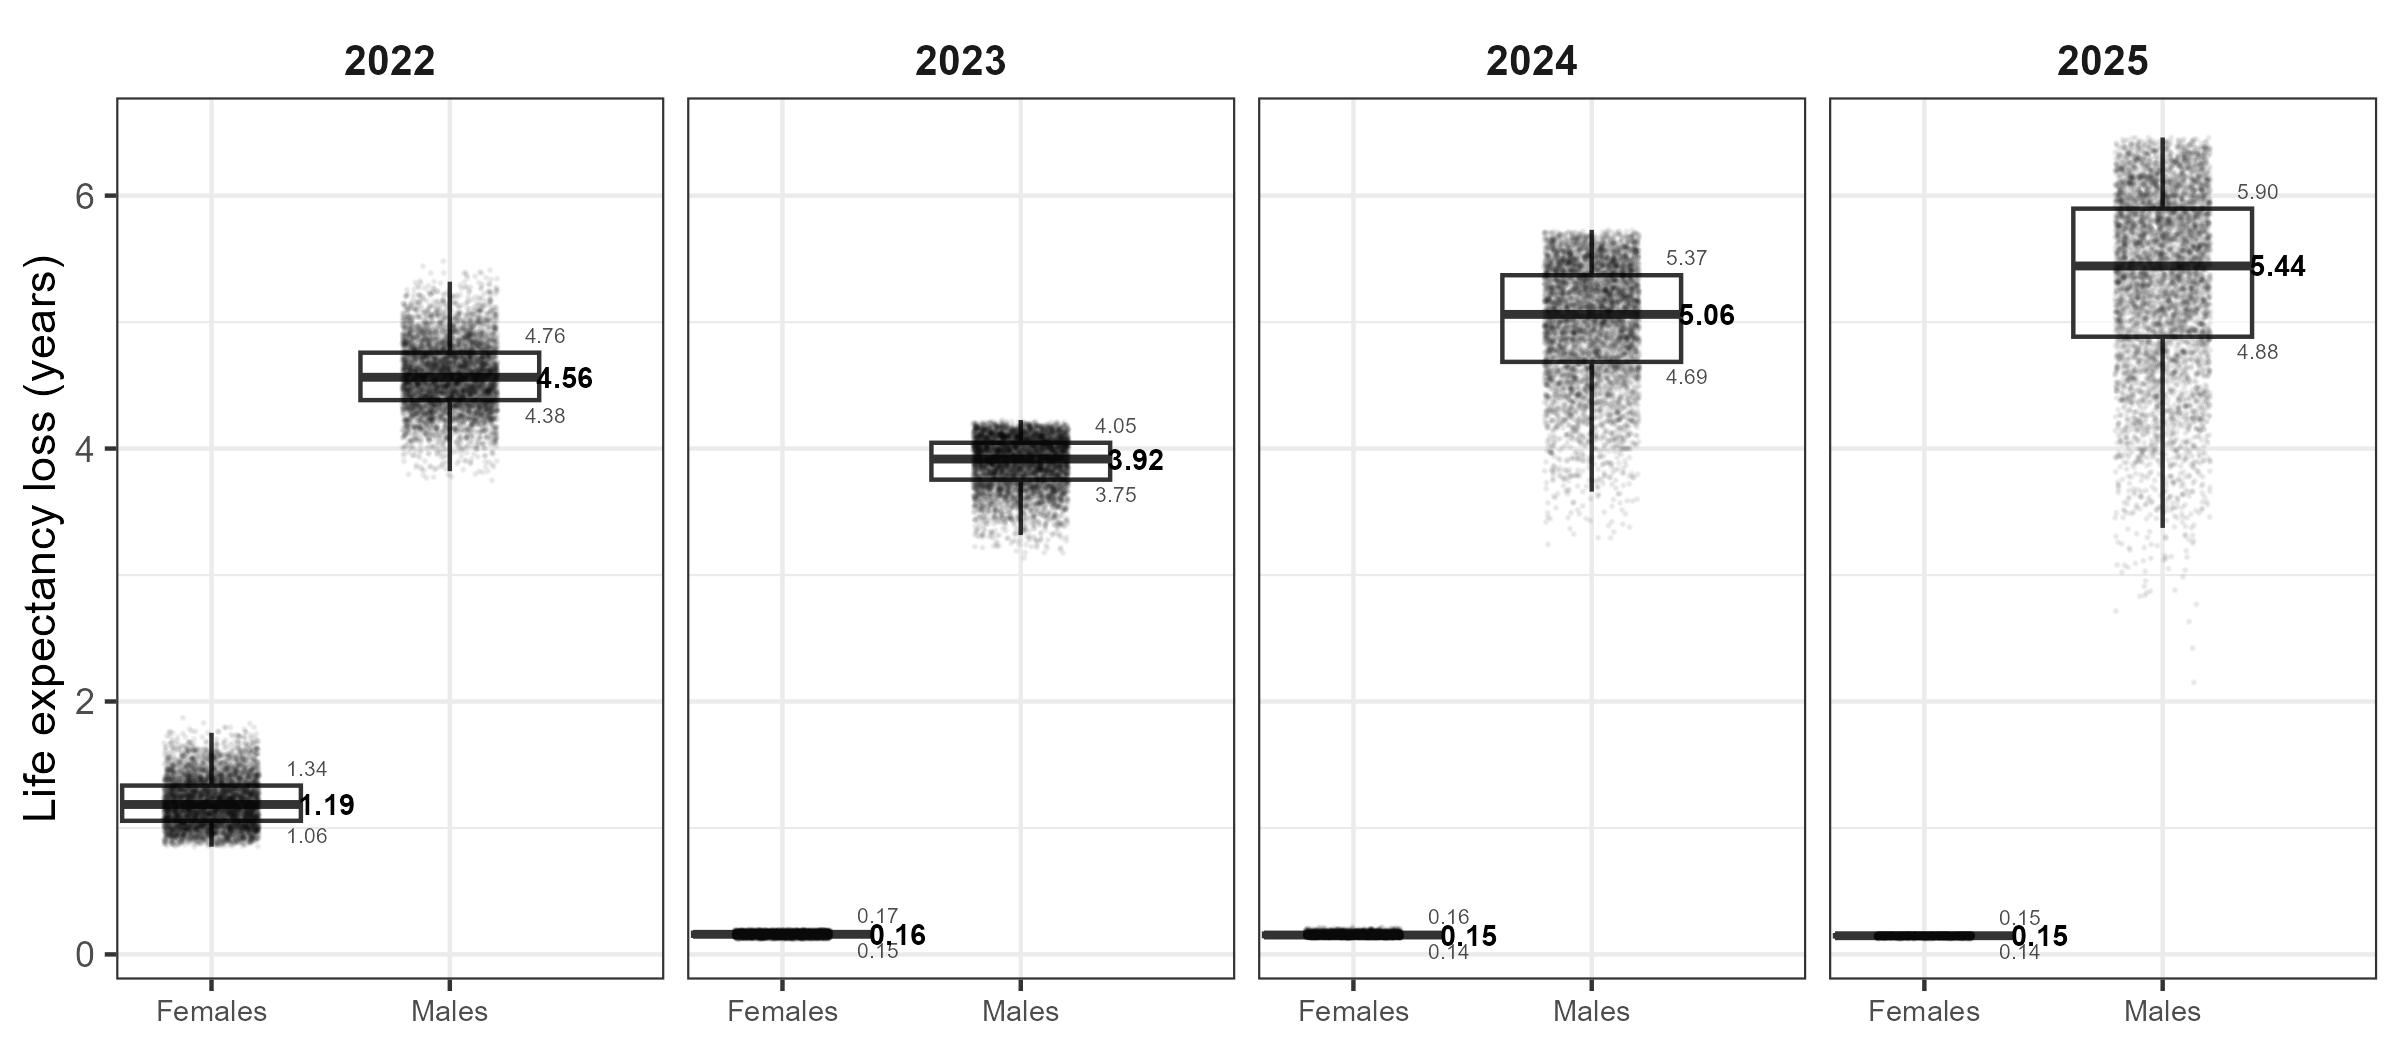
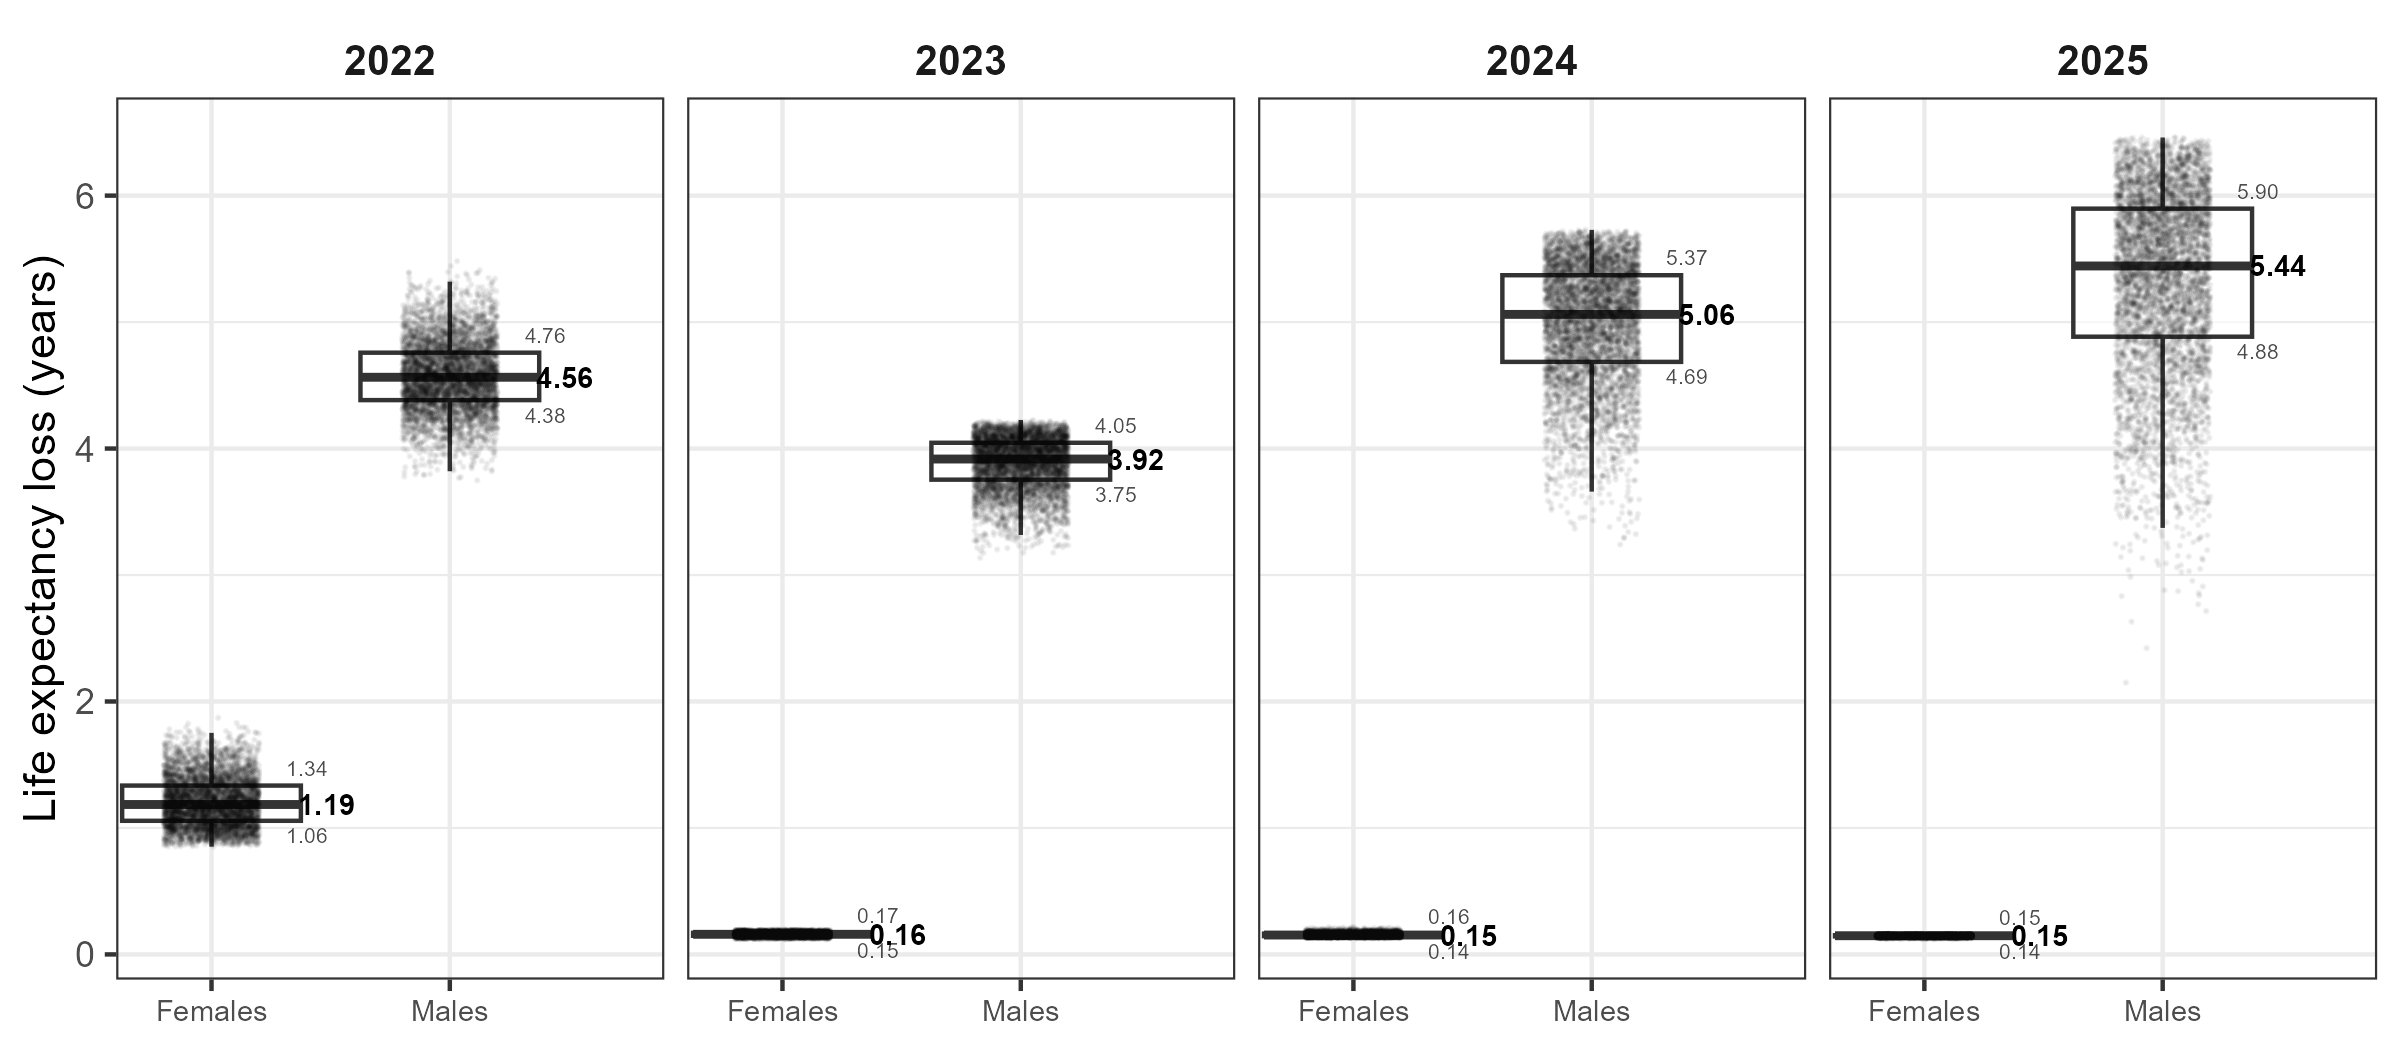
standardizing names

diff --git a/README.md b/README.md
@@ -14,7 +14,7 @@ them and installs anything missing.
 ```r
 source("code/01_pop_estimates_sssu.R")
 # ... 02, 03, 04, 05, 06, 07_*, 08, 09, 10 ...
-source("code/11_estimation conflict and all-cause mortality_arriaga.R")
+source("code/11_estimation_conflict_allcause_mortality.R")
 source("code/14_e0_loss_decomposition_by_cause.R")
 ```
 
@@ -38,7 +38,7 @@ only costs that once.
 | `04` | Lee-Carter forecast → counterfactual "no war" mortality | `ukr_mxs_obs_plus_frcst_1989_2025.rds` |
 | `05` | WPP2024 age-specific fertility | `ukr_asfr_wpp_2022_2025.rds` |
 | `06` | Net emigration by age and sex | `ukr_migrants_...rds` |
-| `07_ucdp_..._invals` | Conflict death **totals** with low/high bounds | `ukr_ucdp_invals.rds` |
+| `07_ucdp_ukr_conflict_deaths` | Conflict death **totals** with low/high bounds | `ukr_ucdp_invals.rds` |
 | `07_ohchr` | Age-sex **profile** of civilian deaths | `ukr_ohchr_civilian_casualties.rds` |
 | `07_acled` | ACLED totals, comparison only | `ukr_acled.rds` |
 | `08` | Combatant deaths by age and sex from the ualosses register | `ukr_ualosses_..._sex_age_...rds` |

diff --git a/data_input/README.md b/data_input/README.md
@@ -66,5 +66,4 @@ aggregates them to anonymous counts before anything is written to
 | `ohchr_civilian_deaths.xlsx` | OHCHR annual civilian death totals |
 | `UKR_2022-2025_OHCHR.xlsx` | OHCHR civilian deaths by age and sex, via UNICEF-IGME |
 | `refugees_eurostat/` | Eurostat temporary protection registrations by age and sex |
-| `unhcr_refugees_annual.csv` | UNHCR annual refugee totals |
 | `acled/` | ACLED fatality counts, comparison only. Not tracked - the cached extract ships instead |
